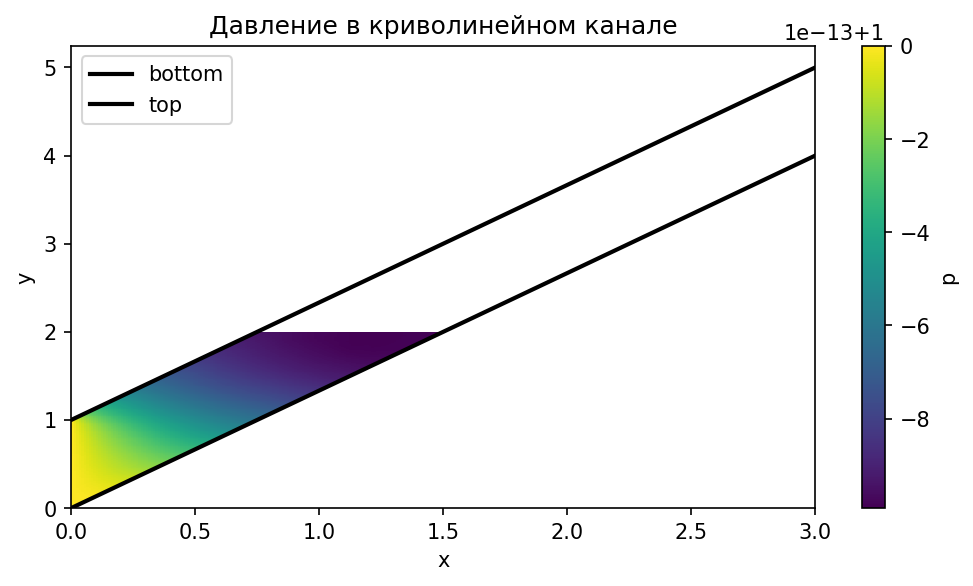
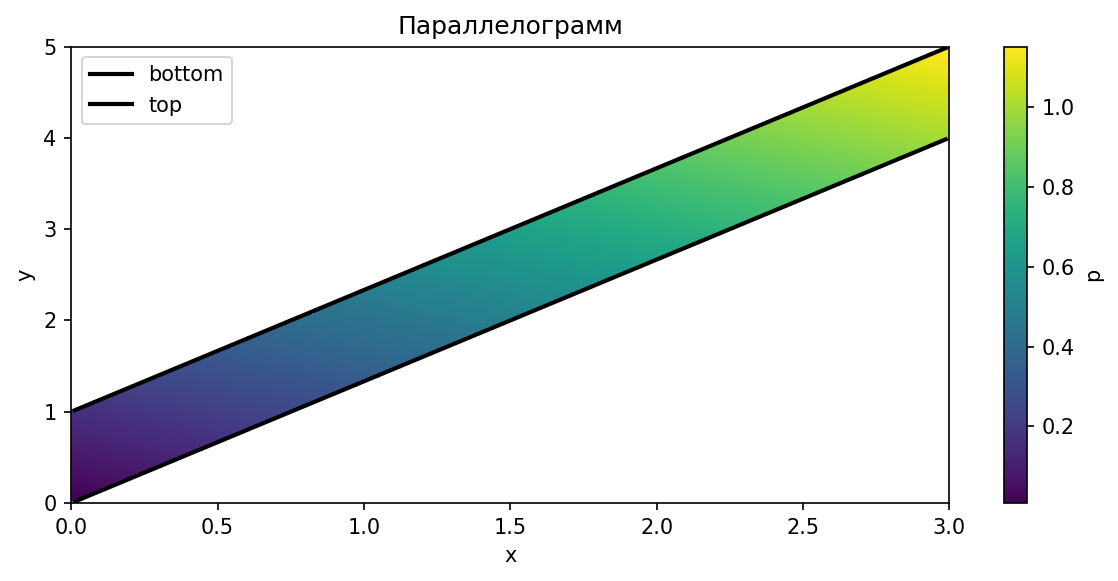
add sin test

diff --git a/laplas.py b/laplas.py
@@ -3,77 +3,105 @@ import scipy.sparse as sp
 import scipy.sparse.linalg as spla
 import matplotlib.pyplot as plt
 
-# ----------------------------------------------------------------------
-# Построение системы для криволинейной области
-# ----------------------------------------------------------------------
-def build_system_curved(Nx, Ny, Lx, Ly, P_in, P_out, f_bottom, f_top):
+
+# ==============================================================================
+# Сборка матрицы для задачи Δp = 0 в криволинейной области
+# ==============================================================================
+def build_system_curved(Nx, Ny, Lx, Ly, f_bottom, f_top,
+                        P_left_func=None, P_right_func=None,
+                        P_in=None, P_out=None):
     """
-    Строит A p = b для активных ячеек криволинейной области.
-    f_bottom(x) и f_top(x) — функции, задающие нижнюю и верхнюю границы.
+    Строит систему A p = b для активных ячеек криволинейной области.
+
+    Параметры:
+    ----------
+    Nx, Ny : int
+        количество ячеек по x и y.
+    Lx, Ly : float
+        размеры расчётной области (прямоугольная сетка).
+    f_bottom, f_top : callable
+        функции одной переменной x, задающие нижнюю и верхнюю границы области.
+    P_left_func, P_right_func : callable (или None)
+        функции давления на левой (x=0) и правой (x=Lx) границах.
+        Если не заданы, используются постоянные значения P_in и P_out.
+    P_in, P_out : float
+        постоянные давления на левой и правой границах (используются,
+        если P_left_func / P_right_func не переданы).
     """
+    # Если функции давления не заданы, создаём константные
+    if P_left_func is None:
+        P_left_func = lambda y: P_in
+    if P_right_func is None:
+        P_right_func = lambda y: P_out
+
     hx = Lx / Nx
     hy = Ly / Ny
     ax = 1.0 / hx**2
     ay = 1.0 / hy**2
 
-    # Координаты центров ячеек
+    # Центры ячеек
     x_centers = (np.arange(Nx) + 0.5) * hx
     y_centers = (np.arange(Ny) + 0.5) * hy
 
-    # Маска активных ячеек
+    # Маска активных ячеек (центр строго внутри области)
     inside = np.zeros((Nx, Ny), dtype=bool)
     for i in range(Nx):
         for j in range(Ny):
-            y_bottom = f_bottom(x_centers[i])
-            y_top = f_top(x_centers[i])
-            if y_bottom < y_centers[j] < y_top:
+            yb = f_bottom(x_centers[i])
+            yt = f_top(x_centers[i])
+            if yb < y_centers[j] < yt:
                 inside[i, j] = True
 
-    # Перенумерация активных ячеек
+    # Нумерация только активных ячеек
     idx_map = -np.ones((Nx, Ny), dtype=int)
-    active = np.argwhere(inside)  # массив пар (i, j)
+    active = np.argwhere(inside)
     for k, (i, j) in enumerate(active):
         idx_map[i, j] = k
-    N = len(active)
+    N_active = len(active)
 
-    # Разреженная матрица и правая часть
-    A = sp.lil_matrix((N, N), dtype=float)
-    b = np.zeros(N, dtype=float)
+    A = sp.lil_matrix((N_active, N_active), dtype=float)
+    b = np.zeros(N_active, dtype=float)
 
     for (i, j) in active:
         k = idx_map[i, j]
         diag = -2.0 * ax - 2.0 * ay
 
-        # Левый сосед
+        # --- горизонтальные соседи (ось x) ---
+        # левый сосед
         if i - 1 >= 0:
             if inside[i-1, j]:
                 A[k, idx_map[i-1, j]] += ax
             else:
-                diag += ax          # Нейман (отражение)
+                diag += ax          # твёрдая стенка (Нейман)
         else:                       # открытая левая граница
+            yj = y_centers[j]
+            p_val = P_left_func(yj)
             diag -= ax
-            b[k] -= 2.0 * ax * P_in
+            b[k] -= 2.0 * ax * p_val
 
-        # Правый сосед
+        # правый сосед
         if i + 1 < Nx:
             if inside[i+1, j]:
                 A[k, idx_map[i+1, j]] += ax
             else:
                 diag += ax
         else:                       # открытая правая граница
+            yj = y_centers[j]
+            p_val = P_right_func(yj)
             diag -= ax
-            b[k] -= 2.0 * ax * P_out
+            b[k] -= 2.0 * ax * p_val
 
-        # Нижний сосед
+        # --- вертикальные соседи (ось y) ---
+        # нижний сосед
         if j - 1 >= 0:
             if inside[i, j-1]:
                 A[k, idx_map[i, j-1]] += ay
             else:
-                diag += ay          # Нейман
+                diag += ay          # твёрдая стенка (Нейман)
         else:
-            diag += ay              # на всякий случай, если вдруг дошли до y=0
+            diag += ay
 
-        # Верхний сосед
+        # верхний сосед
         if j + 1 < Ny:
             if inside[i, j+1]:
                 A[k, idx_map[i, j+1]] += ay
@@ -87,13 +115,25 @@ def build_system_curved(Nx, Ny, Lx, Ly, P_in, P_out, f_bottom, f_top):
     return A.tocsr(), b, hx, hy, inside, x_centers, y_centers
 
 
-def solve_curved(Nx, Ny, Lx, Ly, P_in, P_out, f_bottom, f_top):
+# ==============================================================================
+# Решение задачи
+# ==============================================================================
+def solve_curved(Nx, Ny, Lx, Ly, f_bottom, f_top,
+                 P_left_func=None, P_right_func=None,
+                 P_in=None, P_out=None):
+    """
+    Решает уравнение Лапласа в криволинейной области.
+    Возвращает:
+        A, b, p_active, p_full, inside, xc, yc
+    p_full – (Nx, Ny) массив, неактивные ячейки заполнены NaN.
+    """
     A, b, hx, hy, inside, xc, yc = build_system_curved(
-        Nx, Ny, Lx, Ly, P_in, P_out, f_bottom, f_top
+        Nx, Ny, Lx, Ly, f_bottom, f_top,
+        P_left_func, P_right_func, P_in, P_out
     )
     p_active = spla.spsolve(A, b)
 
-    # Восстановление на полной сетке (NaN для неактивных)
+    # Восстановление полного поля
     p_full = np.full((Nx, Ny), np.nan)
     for k, (i, j) in enumerate(np.argwhere(inside)):
         p_full[i, j] = p_active[k]
@@ -101,94 +141,33 @@ def solve_curved(Nx, Ny, Lx, Ly, P_in, P_out, f_bottom, f_top):
     return A, b, p_active, p_full, inside, xc, yc
 
 
-# ----------------------------------------------------------------------
-# Точные решения (линейная функция по x) для прямоугольной области
-# ----------------------------------------------------------------------
-def discrete_exact_solution(Nx, Ny, Lx, Ly, P_in, P_out):
-    """Точное дискретное решение для полной прямоугольной сетки."""
-    hx = Lx / Nx
-    x = (np.arange(Nx) + 0.5) * hx
-    p_x = P_in + (P_out - P_in) * (x / Lx)
-    p = np.repeat(p_x[:, None], Ny, axis=1)
-    return p
-
-
-def continuous_exact_solution(Nx, Ny, Lx, Ly, P_in, P_out):
-    """Непрерывное точное решение (линейная функция)."""
-    hx = Lx / Nx
-    x = (np.arange(Nx) + 0.5) * hx
-    p_x = P_in + (P_out - P_in) * (x / Lx)
-    p = np.repeat(p_x[:, None], Ny, axis=1)
-    return p
-
-
-# ----------------------------------------------------------------------
-# Вычисление ошибок
-# ----------------------------------------------------------------------
+# ==============================================================================
+# Вычисление ошибок (только для активных ячеек)
+# ==============================================================================
 def error_norms(p_num, p_ex):
-    """Считает ошибки только по конечным значениям (не NaN)."""
+    """
+    Сравнение численного и точного решений.
+    Возвращает (максимальная ошибка, L2-ошибка, относительная L2-ошибка).
+    """
     mask = ~np.isnan(p_num)
     err = p_num[mask] - p_ex[mask]
-    max_err = np.max(np.abs(err)) if len(err) > 0 else 0.0
-    l2_err = np.sqrt(np.mean(err**2)) if len(err) > 0 else 0.0
-    rel_l2_err = l2_err / max(1e-14, np.sqrt(np.mean(p_ex[mask]**2)))
-    return max_err, l2_err, rel_l2_err
+    if len(err) == 0:
+        return 0.0, 0.0, 0.0
+    max_err = np.max(np.abs(err))
+    l2_err = np.sqrt(np.mean(err**2))
+    rel_l2 = l2_err / max(1e-14, np.sqrt(np.mean(p_ex[mask]**2)))
+    return max_err, l2_err, rel_l2
 
 
-# ----------------------------------------------------------------------
-# Запуск одного расчёта
-# ----------------------------------------------------------------------
-def run_case(Nx, Ny, Lx, Ly, P_in, P_out, f_bottom=None, f_top=None, print_matrix=False):
+# ==============================================================================
+# Визуализация
+# ==============================================================================
+def plot_pressure(p_full, Lx, Ly, f_bottom, f_top, title="Давление"):
     """
-    Расчёт давления в криволинейной области.
-    Если f_bottom и f_top не заданы, используются прямые стенки y=0 и y=Ly.
-    """
-    if f_bottom is None:
-        f_bottom = lambda x: 0.0
-    if f_top is None:
-        f_top = lambda x: Ly
-
-    A, b, p_active, p_full, inside, xc, yc = solve_curved(
-        Nx, Ny, Lx, Ly, P_in, P_out, f_bottom, f_top
-    )
-
-    # Точное решение для полной сетки (линейное по x)
-    p_ex = continuous_exact_solution(Nx, Ny, Lx, Ly, P_in, P_out)
-
-    # Сравнение только в активных ячейках
-    max_err, l2_err, rel_l2_err = error_norms(p_full, p_ex)
-
-    print(f"\nСетка {Nx}x{Ny}")
-    print(f"Активных ячеек: {np.sum(inside)} из {Nx*Ny}")
-    print(f"hx = {Lx/Nx:.6e}, hy = {Ly/Ny:.6e}")
-    print(f"max error   = {max_err:.6e}")
-    print(f"L2 error    = {l2_err:.6e}")
-    print(f"rel L2      = {rel_l2_err:.6e}")
-
-    if print_matrix:
-        np.set_printoptions(precision=3, suppress=True)
-        print("\nA =")
-        print(A.toarray())
-        print("\nb =")
-        print(b)
-        print("\np_active =")
-        print(p_active)
-        print("\np_full =")
-        print(p_full)
-        print("\np_ex =")
-        print(p_ex)
-
-    return A, b, p_full, p_ex
-
-def plot_pressure(p_full, Lx, Ly, f_bottom, f_top, title="Давление в канале"):
-    """
-    Визуализация поля давления p_full.
-    p_full: (Nx, Ny) массив, NaN для неактивных ячеек.
-    f_bottom, f_top: функции границ.
+    Рисует поле давления p_full (неактивные ячейки = NaN).
     """
     Nx, Ny = p_full.shape
     xc = (np.arange(Nx) + 0.5) * (Lx / Nx)
-    yc = (np.arange(Ny) + 0.5) * (Ly / Ny)
     x_edges = np.linspace(0, Lx, Nx + 1)
     y_edges = np.linspace(0, Ly, Ny + 1)
 
@@ -201,28 +180,105 @@ def plot_pressure(p_full, Lx, Ly, f_bottom, f_top, title="Давление в к
     plt.xlabel('x')
     plt.ylabel('y')
     plt.legend()
-    plt.show()
-    plt.savefig('plot.png', dpi=150, bbox_inches='tight')
-    print("Plot saved as plot.png")
-# ----------------------------------------------------------------------
-# Основной блок
-# ----------------------------------------------------------------------
-if __name__ == "__main__":
+    plt.tight_layout()
+    plt.savefig(title, dpi=150, bbox_inches='tight')
+    print("Plot saved as " + title)
+
+
+# ==============================================================================
+# Тесты
+# ==============================================================================
+def horizontal_test():
+    # -------------------------------
+    # Тест 1: Прямоугольная область
+    # -------------------------------
+    print("=== Тест 1: Прямые горизонтальные стенки ===")
     Lx = 3.0
     Ly = 2.0
     P_in = 1.0
     P_out = 2.0
+    f_bottom_rect = lambda x: np.zeros_like(x)
+    f_top_rect    = lambda x: np.full_like(x, Ly)
 
-    # 1. Проверка на прямых границах (должна совпадать со старым кодом)
- #   print("=== Прямые границы (f_bottom=0, f_top=Ly) ===")
-  #  for Nx, Ny in [(3, 2), (30, 20), (300, 200)]:
-   #     run_case(Nx, Ny, Lx, Ly, P_in, P_out)
-
-    # 2. Пример с криволинейными границами
-    print("\n=== Криволинейные границы(параллелограмм) ===")
-    f_bottom = lambda x: 4.0/3.0*x
-    f_top = lambda x: 4.0/3.0 * x+1.0
     for Nx, Ny in [(3, 2), (30, 20), (300, 200)]:
-        A, b, p_full, p_ex = run_case(Nx, Ny, Lx, Ly, P_in, P_out, f_bottom, f_top, print_matrix=False)
-# Визуализация
-plot_pressure(p_full, Lx, Ly, f_bottom, f_top, title="Давление в криволинейном канале")
+        A, b, p_act, p_full, inside, xc, yc = solve_curved(
+            Nx, Ny, Lx, Ly, f_bottom_rect, f_top_rect,
+            P_in=P_in, P_out=P_out
+        )
+        # Точное решение (линейное по x)
+        Xc, Yc = np.meshgrid(xc, yc, indexing='ij')
+        p_ex = P_in + (P_out - P_in) * (Xc / Lx)
+
+        max_err, l2_err, rel_l2 = error_norms(p_full, p_ex)
+        print(f"Сетка {Nx}x{Ny}: активных {np.sum(inside)}, "
+              f"max err = {max_err:.2e}, L2 err = {l2_err:.2e}")
+
+    # Визуализация последней сетки
+    plot_pressure(p_full, Lx, Ly, f_bottom_rect, f_top_rect,
+                  title="Прямоугольная_область.png")
+def paralelogram_test():
+    # -------------------------------
+    # Тест 2: Параллелограмм
+    # -------------------------------
+    print("\n=== Тест 2: Параллелограмм (наклонные стенки) ===")
+    Lx = 3.0
+    Ly = 5.0               # чтобы вместить наклон
+
+    # Граничные кривые
+    f_bottom_par = lambda x: (4/3) * x
+    f_top_par    = lambda x: (4/3) * x + 1.0
+
+    # Точное линейное решение: p(x,y) = (3x + 4y)/25
+    p_exact_func = lambda x, y: (3*x + 4*y) / 25.0
+
+    # Граничные давления на левой и правой границах
+    P_left_func  = lambda y: p_exact_func(0, y)    # 4y/25
+    P_right_func = lambda y: p_exact_func(Lx, y)   # (9+4y)/25
+
+    for Nx, Ny in [(30, 50), (60, 100), (120, 200)]:
+        A, b, p_act, p_full, inside, xc, yc = solve_curved(
+            Nx, Ny, Lx, Ly, f_bottom_par, f_top_par,
+            P_left_func=P_left_func,
+            P_right_func=P_right_func
+        )
+        # Точное поле на центрах ячеек
+        Xc, Yc = np.meshgrid(xc, yc, indexing='ij')
+        p_ex = p_exact_func(Xc, Yc)
+
+        max_err, l2_err, rel_l2 = error_norms(p_full, p_ex)
+        print(f"Сетка {Nx}x{Ny}: активных {np.sum(inside)}, "
+              f"max err = {max_err:.2e}, L2 err = {l2_err:.2e}")
+
+
+if __name__ == "__main__":
+    print("\n=== Тест 3: Синусоидальный канал ===")
+
+    wm = 1e-3        # механическая ширина
+    delta = 0.8
+    Lw = 1.25e-3
+    Lx = 10e-3       # длина канала
+
+    # Сдвигаем геометрию так, чтобы она находилась полностью в [0, Ly]
+    Ly = 3.2e-3      # чуть больше максимальной ширины
+    shift = Ly / 2   # 0.6e-3
+
+    f_bottom = lambda x: shift - 0.5 * wm * (1 + delta * np.sin(2 * np.pi * x / Lw))
+    f_top    = lambda x: shift + 0.5 * wm * (1 + delta * np.sin(2 * np.pi * x / Lw))
+
+    # Граничные давления
+    P_in = 1.0
+    P_out = 2.0
+
+    # Размер сетки (возьмём умеренный)
+    Nx = 100
+    Ny = 20
+
+    A, b, p_act, p_full, inside, xc, yc = solve_curved(
+        Nx, Ny, Lx, Ly, f_bottom, f_top,
+        P_in=P_in, P_out=P_out
+    )
+
+    print(f"Активных ячеек: {np.sum(inside)} из {Nx*Ny}")
+
+    # Визуализация
+    plot_pressure(p_full, Lx, Ly, f_bottom, f_top, title="синусоида.png")
